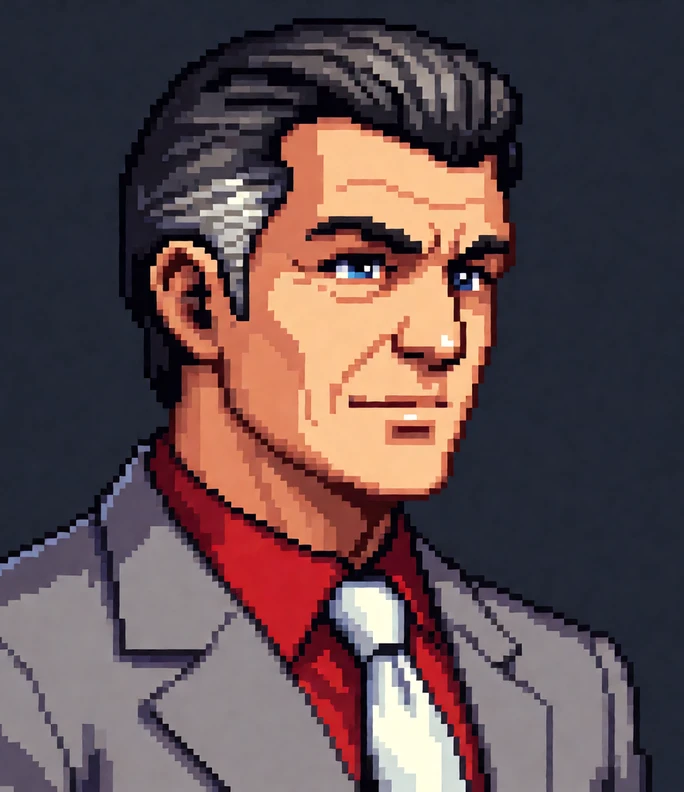
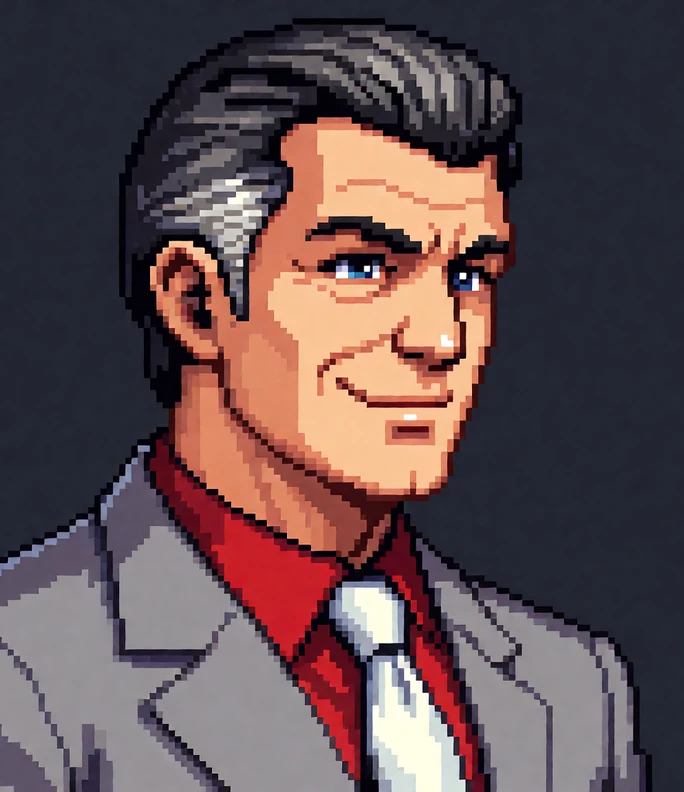
Night Watch portraits: Seymour's visor closed, younger Chad, Kagemaru's wrists black
Claude-Session: https://claude.ai/code/session_01JTmPY8Mp65o4MB5dxNnbWK

diff --git a/game/CREDITS.md b/game/CREDITS.md
@@ -135,7 +135,7 @@ Everything else is drawn in code: portraits for characters without a painted one
 | The Night Watch's weather overlays (`assets/img/watch/weather`): looping rain, storm rain, fog, low mist and wind (gust streaks and leaves) | Drawn in code for this game by `tools/watch_art/proc.py` on 2026-11-18 | Made for this game | The Night Watch's weather days and nights |
 | The Night Watch's stacked town (`assets/img/watch/town`, and the per-level crops `assets/img/watch/levels/*/street.webp`): the West Road, Hill Road, Main Street and Far Lane on one hillside, each road above the next, joined by sloped paths and the chute | Laid out by `tools/watch_art/town.py` on 2026-11-18 from the Sogni buildings, trees and bushes credited above, plus a hillside soil tile and a stone retaining-wall tile generated for this game with [Sogni](https://www.sogni.ai) on 2026-11-18 with Krea 2 Turbo (`krea2_turbo_fp8_scaled`) on Ladi's Sogni Unlimited plan; roads, ramps, fences, the chute and the dock's plank walkway and river drawn in code. The backdrop behind the terraces (`town/back.webp`) reuses the hazed rooftop rows from the first set of level layers, raised to the top of the hill, over a hazed hillside of the same trees and bushes | Generated for this game; used under Sogni's terms for generated output | The Night Watch's town (`js/watch-art.js`) |
 | The Night Watch's castle floors (`assets/img/watch/floors/*/wall.webp`): the towers, upper floor, ground floor and cellars, each one long wall with its stairs at both ends and its rooms furnished at a person's scale | Generated for this game with [Sogni](https://www.sogni.ai) on 2026-11-18 on Ladi's Sogni Unlimited plan: each floor drawn empty as one wall with Krea 2 Turbo (`krea2_turbo_fp8_scaled`), then furnished in place with Krea 2 Identity Edit (`krea2_identity_edit_v1_2`) using the empty room for scale; windows and doorways keyed out by `tools/watch_art/floors2.py`. The cellar bunk that blocked a doorway removed with one more Krea 2 Identity Edit; the ground floor's window sills, the solid end walls, the opened bridge doorway and the hoist shaft on the left drawn in code by the same script | Generated for this game; used under Sogni's terms for generated output | The Night Watch's castle (`js/watch-art.js`) |
-| The Night Watch's dialogue portraits (`assets/img/watch/portraits/*.webp`): Seo-yeon, Mira, Kai, Dutch, Postmaster Coo, Bru, Kagemaru, Lexi, Grandma Wen, Ayo, Aigerim, Chad, Sir Seymour Backups, Old Hobb, Sergeant Pell, Tess, Doug, Hollis, Odu, Fennel, the Captain and the Hooded Stranger | Generated for this game with [Sogni](https://www.sogni.ai) on 2026-11-18 with Krea 2 Identity Edit (`krea2_identity_edit_v1_2`) on Ladi's Sogni Unlimited plan, each turned into a head-and-shoulders bust from that character's side-view render in `assets/img/watch/people` (and, where one exists, their portrait in `assets/img/portraits` as a second reference); one of two takes picked, cropped and converted to WebP. Prompts in `tools/watch_art/jobs/jobs-portrait.json` | Generated for this game; used under Sogni's terms for generated output | The Night Watch's dialogue box |
+| The Night Watch's dialogue portraits (`assets/img/watch/portraits/*.webp`): Seo-yeon, Mira, Kai, Dutch, Postmaster Coo, Bru, Kagemaru, Lexi, Grandma Wen, Ayo, Aigerim, Chad, Sir Seymour Backups, Old Hobb, Sergeant Pell, Tess, Doug, Hollis, Odu, Fennel, the Captain and the Hooded Stranger | Generated for this game with [Sogni](https://www.sogni.ai) on 2026-11-18 with Krea 2 Identity Edit (`krea2_identity_edit_v1_2`) on Ladi's Sogni Unlimited plan, each turned into a head-and-shoulders bust from that character's side-view render in `assets/img/watch/people` (and, where one exists, their portrait in `assets/img/portraits` as a second reference); one of two takes picked, cropped and converted to WebP; Seymour's closed visor and a younger, friendlier Chad edited the same way, and Kagemaru's wrists recoloured black in code. Prompts in `tools/watch_art/jobs/jobs-portrait.json` | Generated for this game; used under Sogni's terms for generated output | The Night Watch's dialogue box |
 
 ## Model
 
